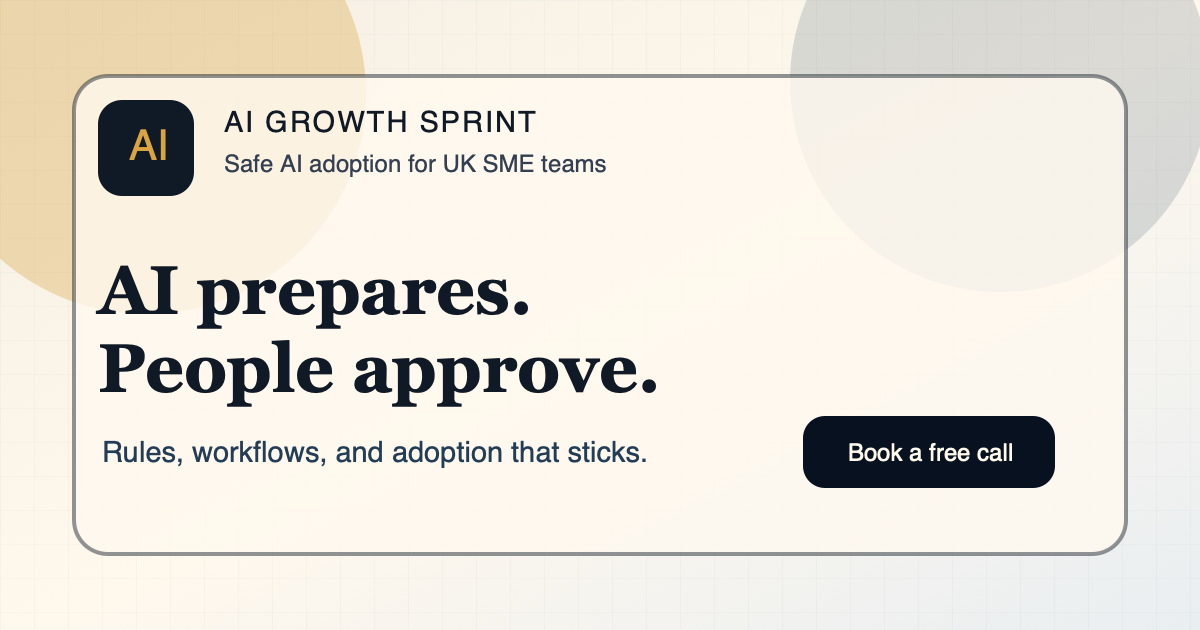
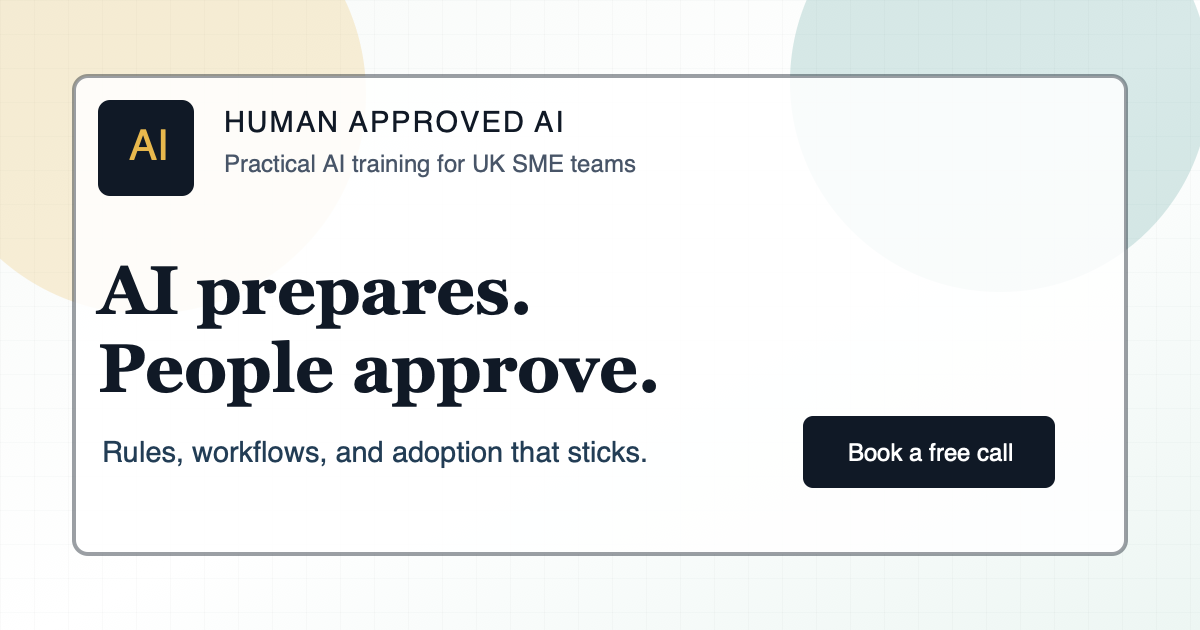
Rebrand site to Human Approved AI

diff --git a/src/data/site.ts b/src/data/site.ts
@@ -1,28 +1,28 @@
 export const SITE = {
-  name: "AI Growth Sprint",
+  name: "Human Approved AI",
   description:
-    "Use AI to save time, win more work, and reduce admin — without putting your business at risk. Practical training for UK SME teams.",
-  url: "https://aigrowthsprint.co.uk",
+    "Practical AI training for UK SME teams that want to save time, improve output, and keep final decisions human.",
+  url: "https://humanapprovedai.com",
   bookingUrl: "/contact/",
-  email: "[email redacted]",
+  email: "[email redacted]",
   phone: "",
 };
 
 export const packages = [
   {
-    name: "Team Workshop",
+    name: "AI Opportunity Workshop",
     price: "From £1,500/day",
-    fit: "Private training for a team that wants safe adoption and tailored workflows.",
+    fit: "Private training for a team that wants safe adoption, tailored workflows, and fast wins on real work.",
     includes: ["Up to 12 people", "Built around your real workflows", "Workbook, prompts, and approval rules", "30-day follow-up"],
   },
   {
-    name: "Open Cohort",
+    name: "Open SME Cohort",
     price: "£400–600 per person",
     fit: "A lower-commitment route for smaller teams and individuals.",
     includes: ["Industry-focused cohort", "Small group format", "Reusable workflow templates", "Follow-up support"],
   },
   {
-    name: "4-Week Programme",
+    name: "4-Week Implementation Programme",
     price: "£800–1,200 per person",
     fit: "Deeper support for teams that want adoption beyond one workshop day.",
     includes: ["Two sessions per week", "Implementation coaching", "Workflow refinement", "Adoption and approval check-ins"],

diff --git a/docs/deployment.md b/docs/deployment.md
@@ -1,0 +1,40 @@
+# Deployment Notes
+
+## Canonical Domain
+
+Primary domain: `humanapprovedai.com`
+
+Redirect domains:
+
+- `www.humanapprovedai.com` -> `humanapprovedai.com`
+- `humanapprovedai.co.uk` -> `humanapprovedai.com`
+- `www.humanapprovedai.co.uk` -> `humanapprovedai.com`
+
+## Cloudflare Pages
+
+Recommended Pages project name: `humanapprovedai`
+
+- Build command: `npm run build`
+- Output directory: `dist`
+- Production branch: `main`
+
+Direct upload, once Cloudflare is authenticated:
+
+```bash
+npm run build
+npx wrangler pages deploy dist --project-name=humanapprovedai --branch=main
+```
+
+## DNS
+
+After the Pages project exists and the custom domains are attached, point the
+domain records at Cloudflare Pages:
+
+```text
+humanapprovedai.com       CNAME  humanapprovedai.pages.dev
+www.humanapprovedai.com   CNAME  humanapprovedai.pages.dev
+humanapprovedai.co.uk     CNAME  humanapprovedai.pages.dev
+www.humanapprovedai.co.uk CNAME  humanapprovedai.pages.dev
+```
+
+Keep any required email TXT/MX records unchanged.